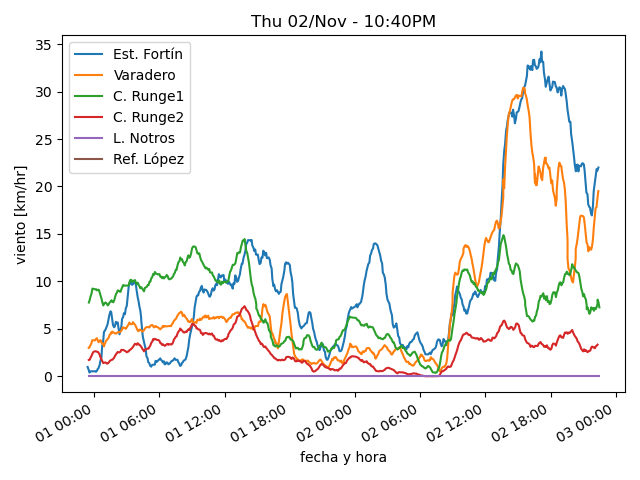
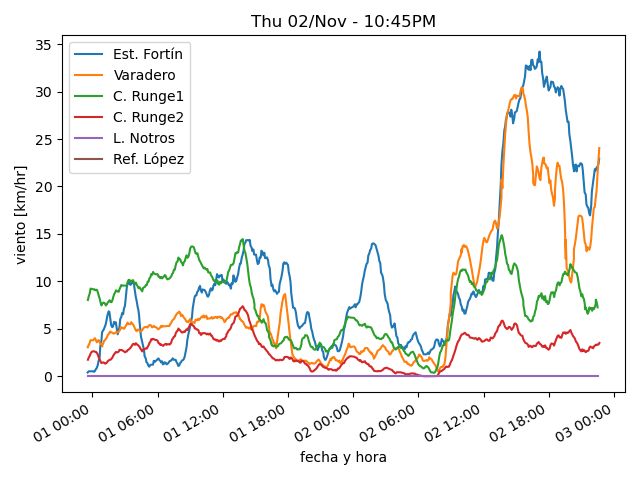
actualiza datos

diff --git a/estaciones/estacion4.html b/estaciones/estacion4.html
@@ -18,32 +18,32 @@
     </tr>
     <tr>
      <td class="stats_data">
-      10:19PM
+      10:39PM
      </td>
     </tr>
     <tr>
      <td class="stats_data">
-      7.3⁰C
+      7.5⁰C
      </td>
     </tr>
     <tr>
      <td class="stats_data">
-      1.0⁰C
+      0.5⁰C
      </td>
     </tr>
     <tr>
      <td class="stats_data">
-      64.1%
+      61.3%
      </td>
     </tr>
     <tr>
      <td class="stats_data">
-      1019.81hPa
+      1019.74hPa
      </td>
     </tr>
     <tr>
      <td class="stats_data">
-      3.0/4.5 km/hr SW
+      3.7/5.5 km/hr SW
      </td>
     </tr>
     <tr>

diff --git a/estaciones/estacion1.html b/estaciones/estacion1.html
@@ -18,22 +18,22 @@
     </tr>
     <tr>
      <td class="stats_data">
-      10:24PM
+      10:38PM
      </td>
     </tr>
     <tr>
      <td class="stats_data">
-      8.0⁰C
+      7.8⁰C
      </td>
     </tr>
     <tr>
      <td class="stats_data">
-      2.5⁰C
+      2.4⁰C
      </td>
     </tr>
     <tr>
      <td class="stats_data">
-      68.0%
+      68.5%
      </td>
     </tr>
     <tr>
@@ -43,7 +43,7 @@
     </tr>
     <tr>
      <td class="stats_data">
-      16.7/23.1 km/hr WSW
+      11.1/22.5 km/hr SSW
      </td>
     </tr>
     <tr>

diff --git a/estaciones/estacion2.html b/estaciones/estacion2.html
@@ -18,22 +18,22 @@
     </tr>
     <tr>
      <td class="stats_data">
-      10:24PM
+      10:39PM
      </td>
     </tr>
     <tr>
      <td class="stats_data">
-      8.8⁰C
+      9.0⁰C
      </td>
     </tr>
     <tr>
      <td class="stats_data">
-      4.2⁰C
+      4.1⁰C
      </td>
     </tr>
     <tr>
      <td class="stats_data">
-      72.9%
+      71.3%
      </td>
     </tr>
     <tr>
@@ -43,7 +43,7 @@
     </tr>
     <tr>
      <td class="stats_data">
-      21.1/26.1 km/hr WNW
+      27.5/33.3 km/hr NW
      </td>
     </tr>
     <tr>
